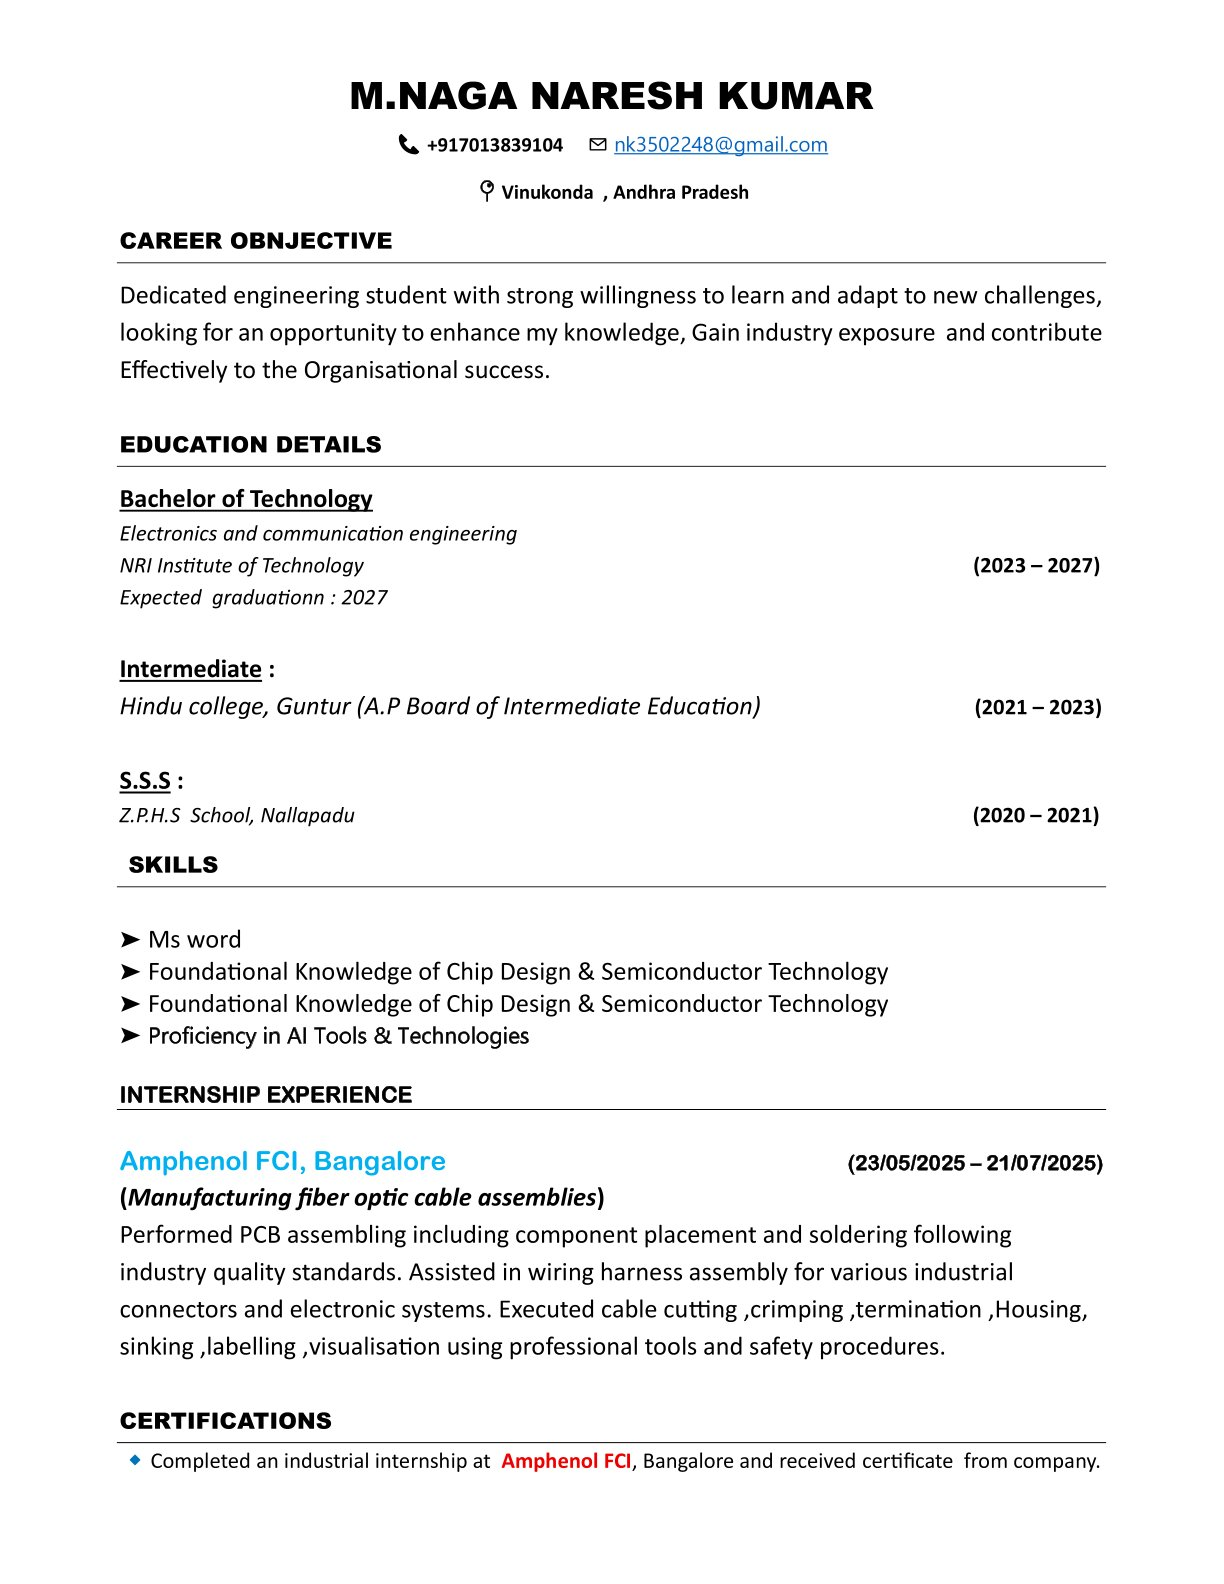
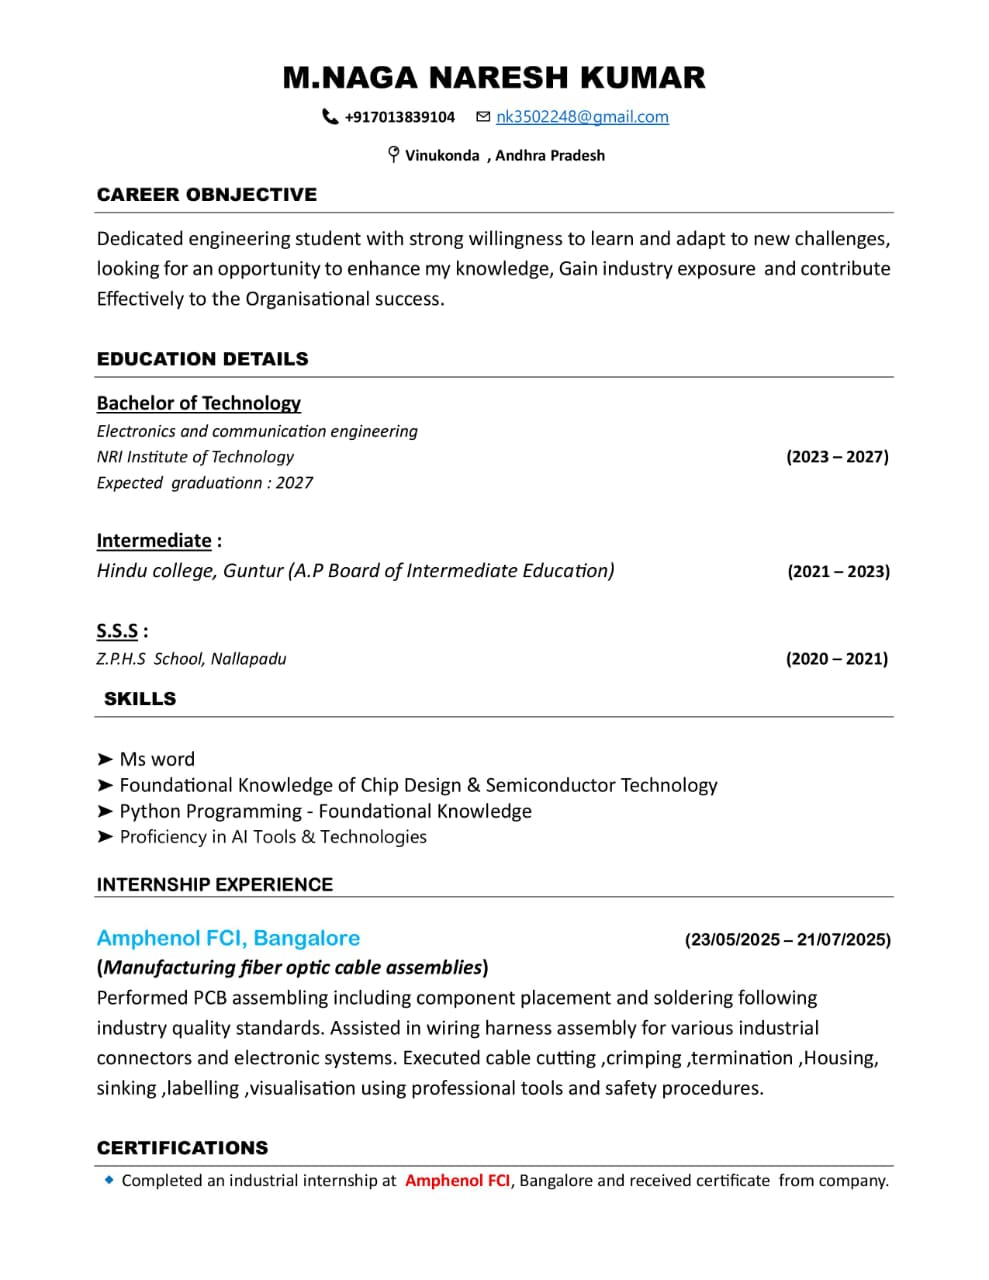
Add files via upload

diff --git a/index.html b/index.html
@@ -3,7 +3,7 @@
 <head>
     <meta charset="UTF-8">
     <meta name="viewport" content="width=device-width, initial-scale=1.0">
-    <title>🌐Web portfolio</title>
+    <title>Web portfolio</title>
     <link href="https://fonts.googleapis.com/css2?family=Plus+Jakarta+Sans:wght@300;400;600;800&family=Space+Grotesk:wght@300;500;700&display=swap" rel="stylesheet">
     <link rel="stylesheet" href="https://cdnjs.cloudflare.com/ajax/libs/font-awesome/6.4.0/css/all.min.css">
     <style>
